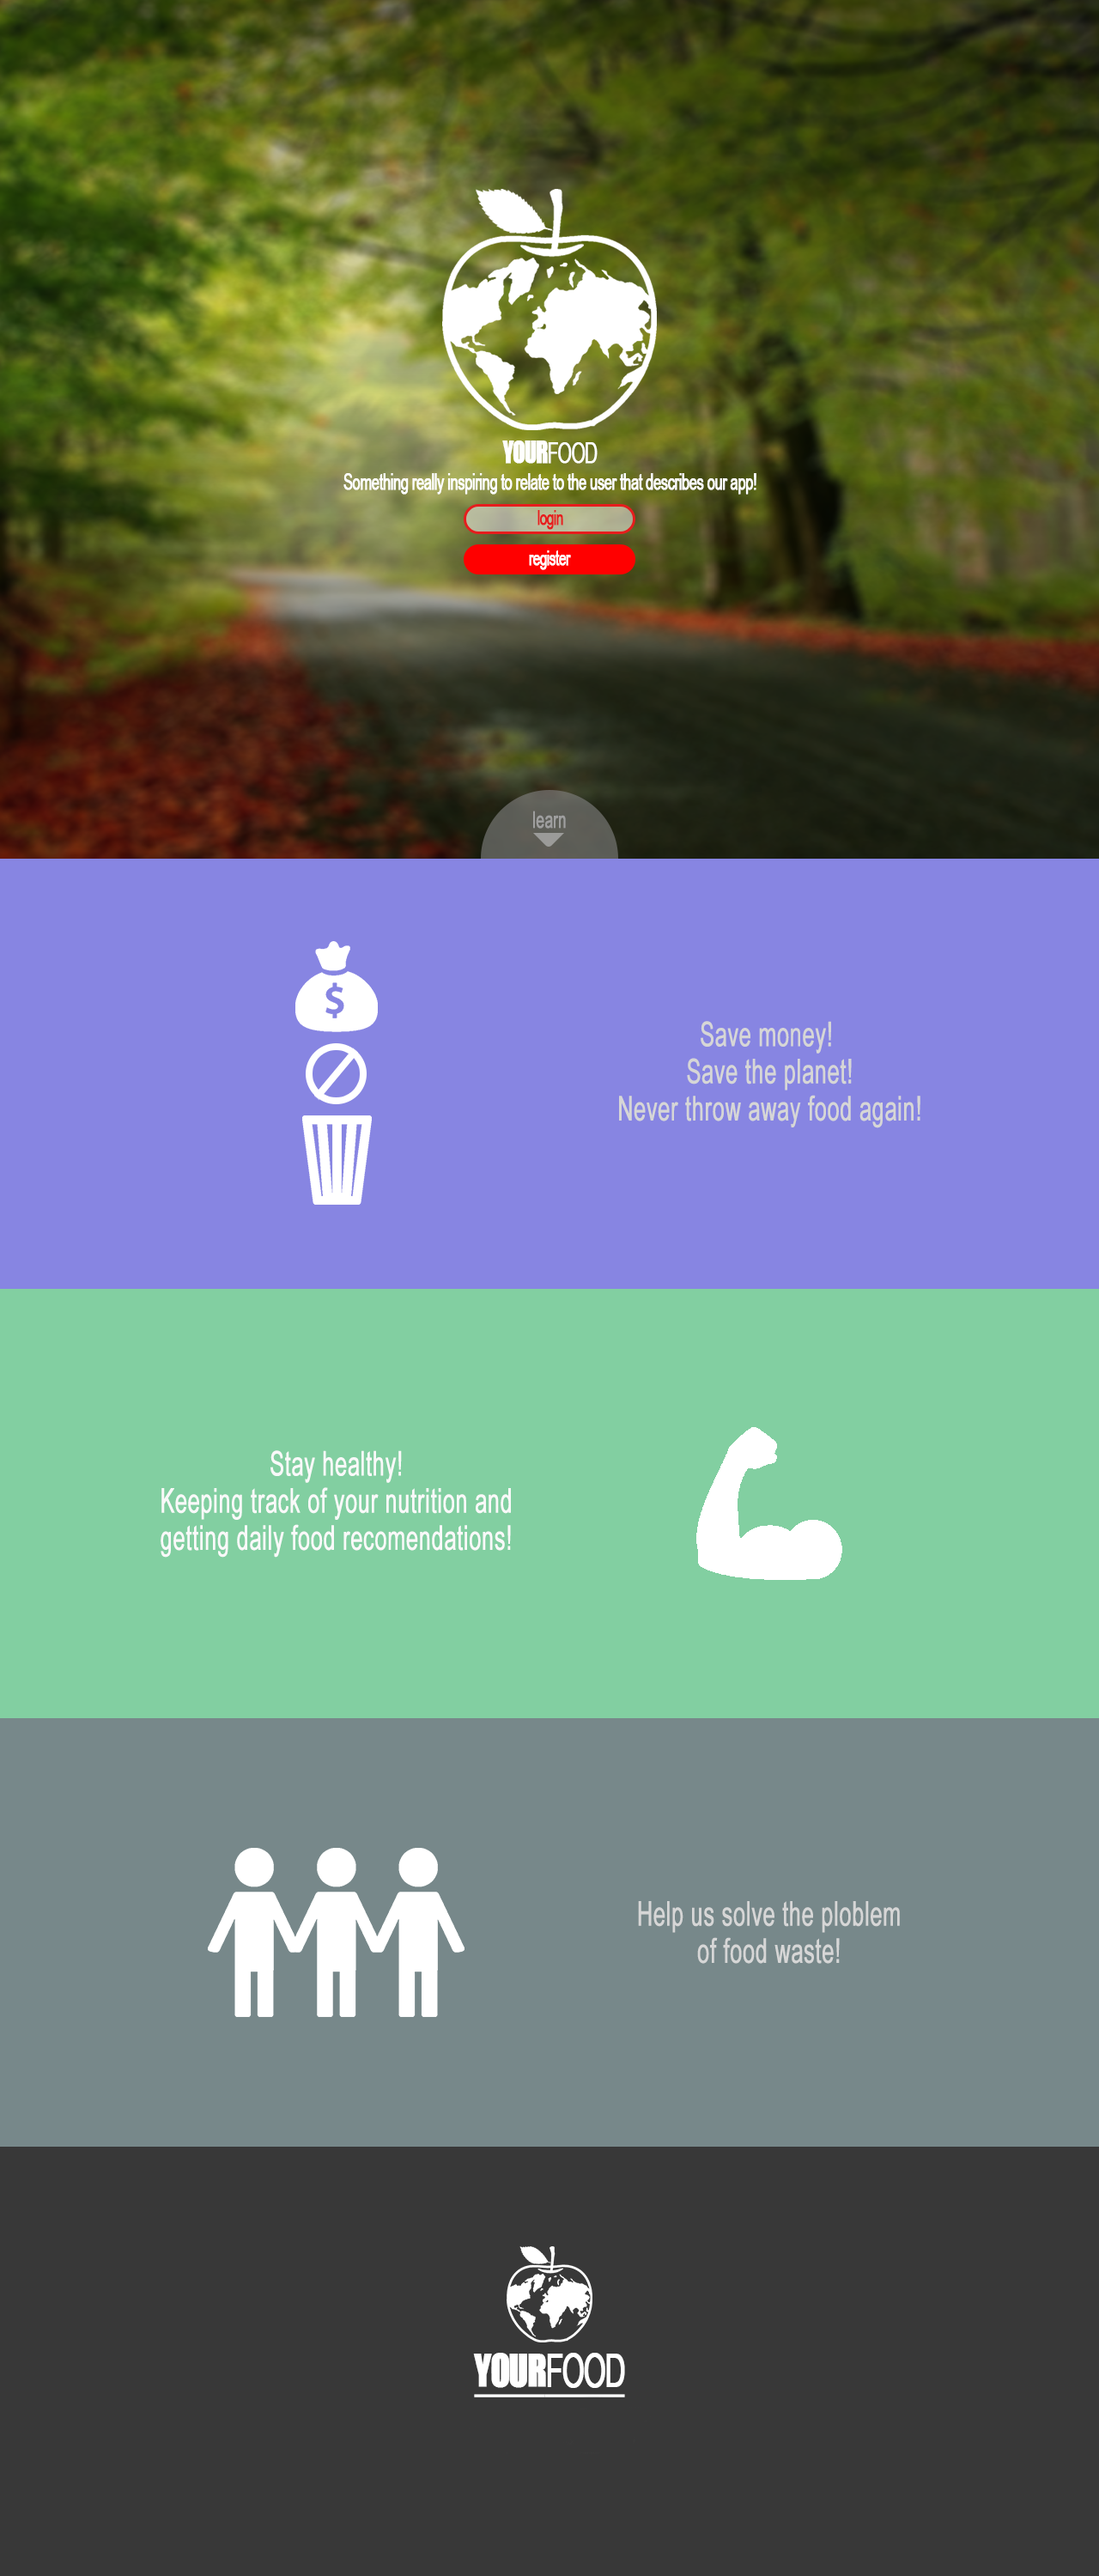
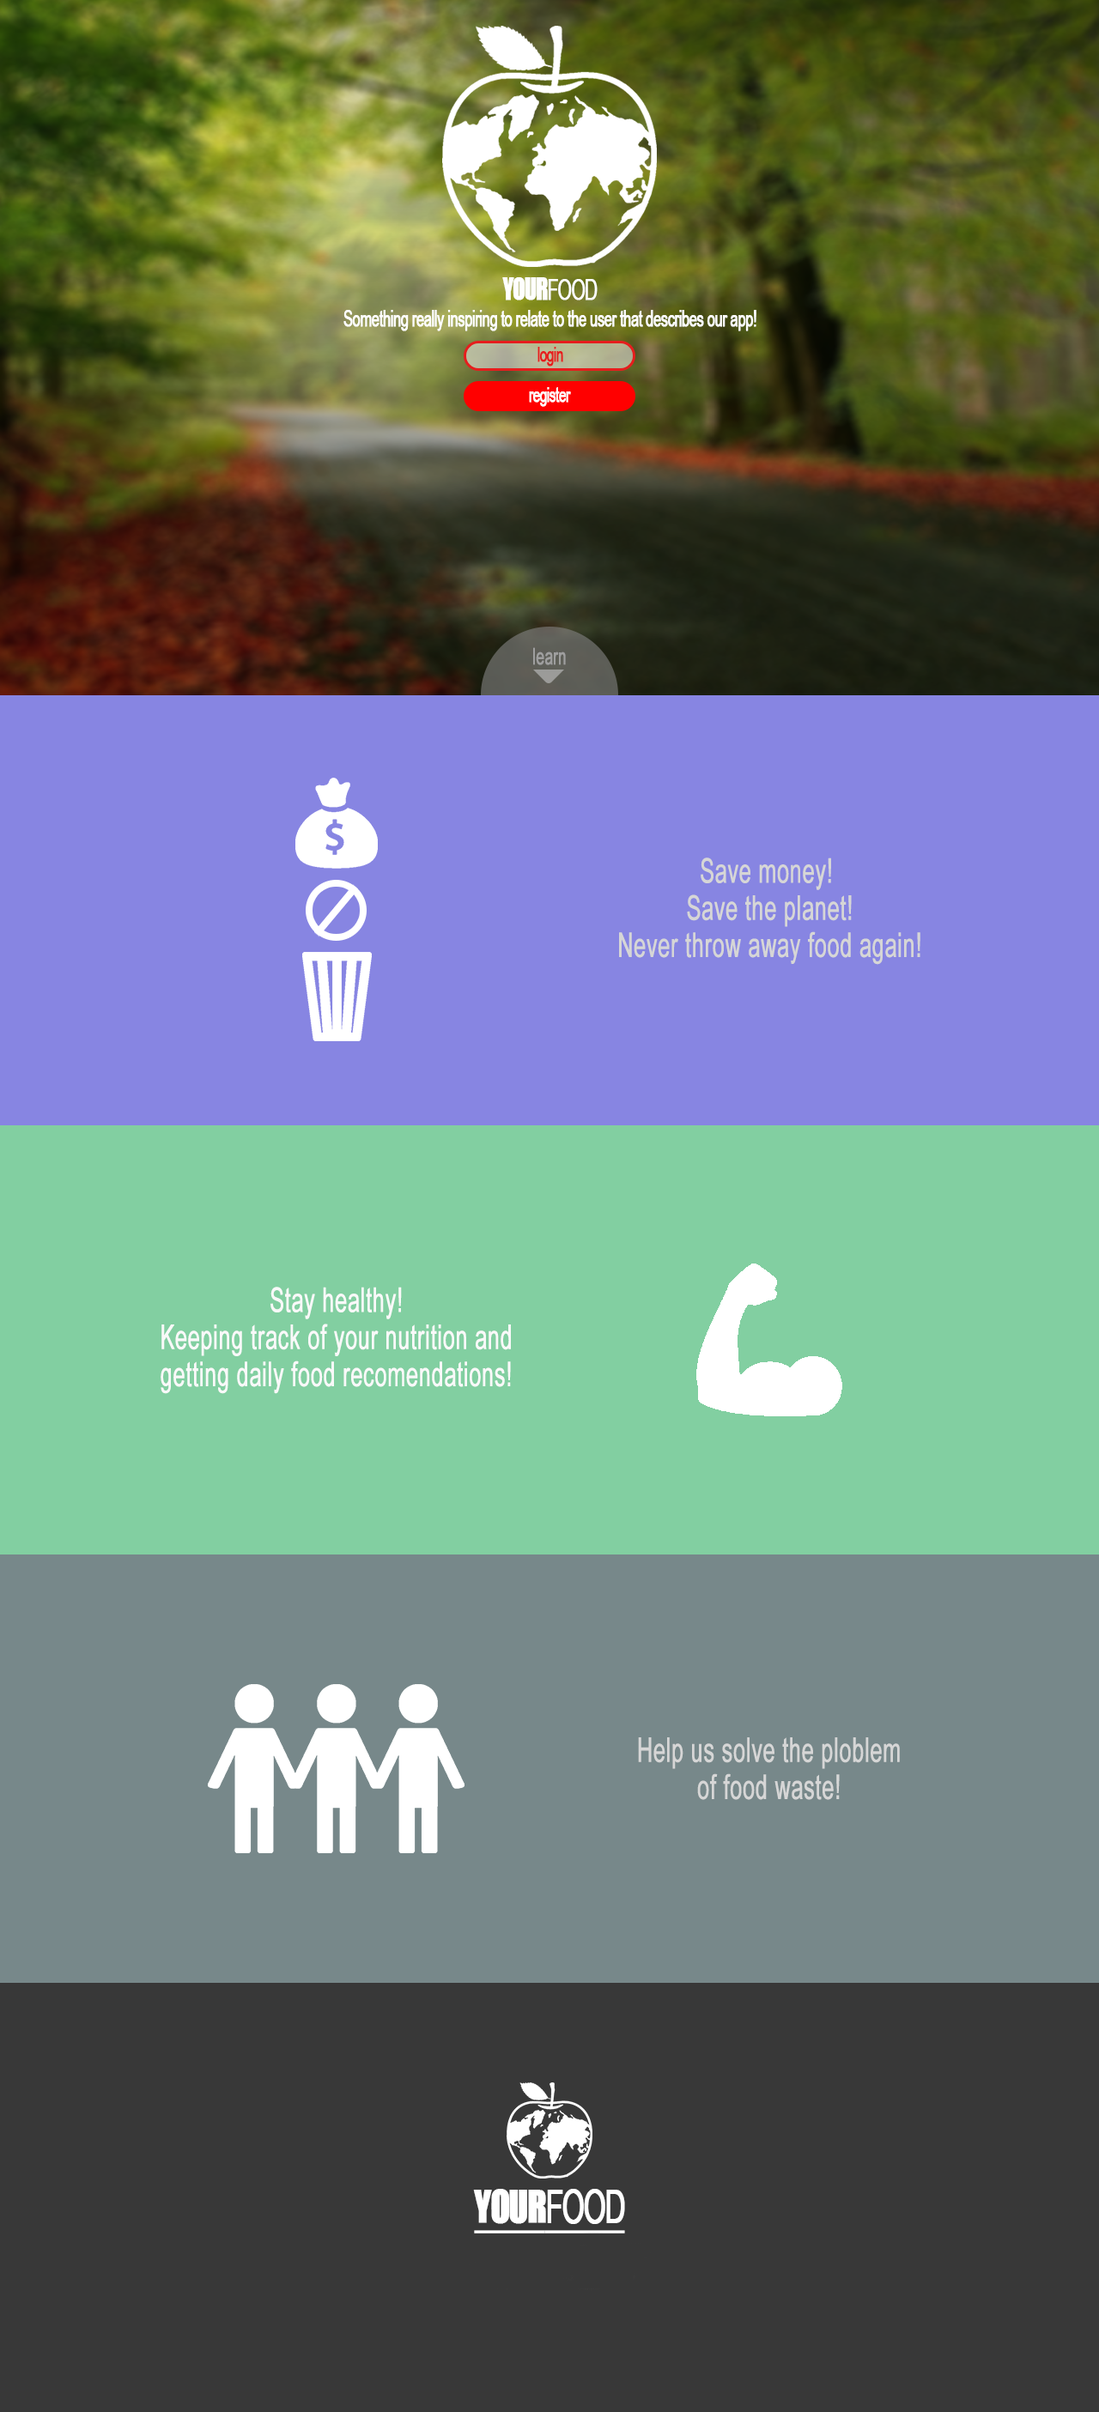
Update bootstrap theme

diff --git a/public/css/style.css b/public/css/style.css
@@ -1,0 +1,192 @@
+/* ==== Google font ==== */
+@import url('http://fonts.googleapis.com/css?family=Lato:400,300,700,900');
+
+body {
+  background-color: #f2f2f2;
+    font-family: 'Lato', sans-serif;
+    font-weight: 300;
+    font-size: 16px;
+    color: #555;
+    line-height: 1.6em;
+    -webkit-font-smoothing: antialiased;
+    -webkit-overflow-scrolling: touch;
+}
+
+h1, h2, h3, h4, h5, h6 {
+    font-family: 'Lato', sans-serif;
+    font-weight: 300;
+    color: #444;
+}
+
+h1 {
+	font-size: 40px;
+}
+
+h3 {
+	font-weight: 400;
+}
+
+h4 {
+	font-weight: 400;
+	font-size: 20px;
+}
+
+p {
+    margin-bottom: 20px;
+    font-size: 16px;
+}
+
+
+a {
+    color: #d6ee18;
+    word-wrap: break-word;
+    -webkit-transition: color 0.1s ease-in, background 0.1s ease-in;
+    -moz-transition: color 0.1s ease-in, background 0.1s ease-in;
+    -ms-transition: color 0.1s ease-in, background 0.1s ease-in;
+    -o-transition: color 0.1s ease-in, background 0.1s ease-in;
+    transition: color 0.1s ease-in, background 0.1s ease-in;
+}
+
+a:hover,
+a:focus {
+    color: #b7cb1b;
+    text-decoration: none;
+    outline: 0;
+}
+
+a:before,
+a:after {
+    -webkit-transition: color 0.1s ease-in, background 0.1s ease-in;
+    -moz-transition: color 0.1s ease-in, background 0.1s ease-in;
+    -ms-transition: color 0.1s ease-in, background 0.1s ease-in;
+    -o-transition: color 0.1s ease-in, background 0.1s ease-in;
+    transition: color 0.1s ease-in, background 0.1s ease-in;
+}
+.navbar-inverse .navbar-nav > li > a {
+    color: #c6d550;
+}
+
+.alignleft {
+    text-align: left;
+}
+.alignright {
+    text-align: right;
+}
+
+.aligncenter {
+    text-align: center;
+}
+
+.btn-theme  {
+  color: #fff;
+  background-color: #fd680e;
+  border-color: #fd680e;
+}
+.btn-theme:hover  {
+  color: #fff;
+  background-color: #444;
+  border-color: #444;
+}
+form.signup {
+	margin-top: 30px;
+}
+form.signup button.btn {
+	text-transform: uppercase;
+	font-weight: 700;
+}
+form.signup input.form-control:focus {
+	border-color: #fd680e;
+}
+
+
+/* Nav */
+
+a.navbar-brand {
+	color: #fff !important;
+	font-weight: 900;
+	text-transform: uppercase;
+}
+a.navbar-brand:hover {
+    color: #ddd !important;
+}
+
+/* Header */
+
+#header {	
+	background-color: #444;
+	background: url(../img/main-bg.jpg) no-repeat center top;
+	margin-top: -20px;
+	padding-top: 150px;
+	background-attachment: relative;
+	background-position: center center;
+	min-height: 650px;
+	width: 100%;
+	
+    -webkit-background-size: 100%;
+    -moz-background-size: 100%;
+    -o-background-size: 100%;
+    background-size: 100%;
+
+    -webkit-background-size: cover;
+    -moz-background-size: cover;
+    -o-background-size: cover;
+    background-size: cover;
+}
+
+
+
+#header h1 {
+	margin-top: 60px;
+	margin-bottom: 15px;
+	color: #fff;
+	font-size: 45px;
+	font-weight: 900;
+	letter-spacing: -1px;
+}
+
+h2.subtitle {
+	color: #fff;
+	font-size: 20px;
+}
+
+/* slide */
+.carousel-indicators {
+  position: absolute;
+  bottom: -40px;
+  left: 50%;
+  z-index: 15;
+  width: 60%;
+  padding-left: 0;
+  margin-left: -50%;
+  text-align: center;
+  list-style: none;
+}
+.carousel-indicators li {
+  display: inline-block;
+  width: 10px;
+  height: 10px;
+  margin: 1px;
+  text-indent: -999px;
+  cursor: pointer;
+  background-color: #000 \9;
+  background-color: #fff;
+  border: 1px solid #fff;
+  border-radius: 10px;
+}
+.carousel-indicators .active {
+  width: 12px;
+  height: 12px;
+  margin: 0;
+  background-color: #b7cb1b;
+}
+
+/* footer */
+#footer {
+	background: #fd680e;
+	padding: 5px 0 5px;
+}
+
+p.copyright {
+	color: #fff;
+	text-align: center;
+}	

diff --git a/public/css/site.css b/public/css/site.css
@@ -1,6 +1,7 @@
 body {
   padding-top: 60px;
   padding-bottom: 80px;
+  background-color: #101010;
 }
 .navbar-right .navbar-form input {
   margin-right: 20px;
@@ -99,8 +100,8 @@ ul {
   min-width: 230px;
 }
 .home-page {
-  margin-top: -180px;
-  height: 3000px;
+  margin-top: -10px;
+  height: 2810px;
   background-position: center;
   background-repeat: no-repeat;
   background-attachment: scroll;
@@ -109,7 +110,7 @@ ul {
 #home-page-login {
   display: block;
   margin: 0 auto;
-  margin-top: 585px;
+  margin-top: 395px;
   background-image: url("../images/background/login.png") !important;
   width: 202px;
   height: 37px;
@@ -154,4 +155,14 @@ ul {
 #home-page-learn-container {
   height: 0;
   margin: 0;
+}
+.content-background {
+  background-color: #242424;
+}
+.active-list-item {
+  background-color: #fd6910;
+  color: #fff;
+}
+.recipes-content {
+  color: #d6ee1a;
 }

diff --git a/public/app/main/mainCtrl.js b/public/app/main/mainCtrl.js
@@ -1,13 +1,16 @@
 'use strict';
 
-app.controller('MainCtrl', function($scope, $document){
+app.controller('MainCtrl', function($scope, $document, $location, identity){
+    if (identity.isAuthenticated()) {
+        $location.path('/products');
+    }
     $scope.scrollToLearn = function() {
-        var duration = 100;
+        var duration = 500;
         var offset = 30;
 
         var someElement = angular.element(document.getElementById('home-page-learn-container'));
         $document.scrollToElement(someElement, offset, duration);
-    }
+    };
 
     $scope.interval = 2500;
 
